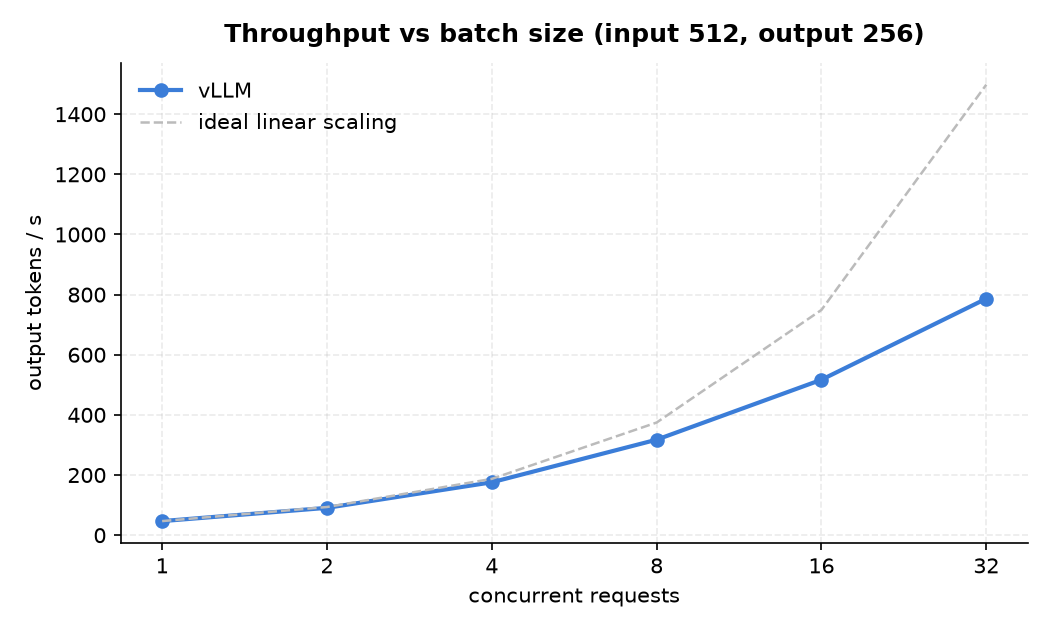
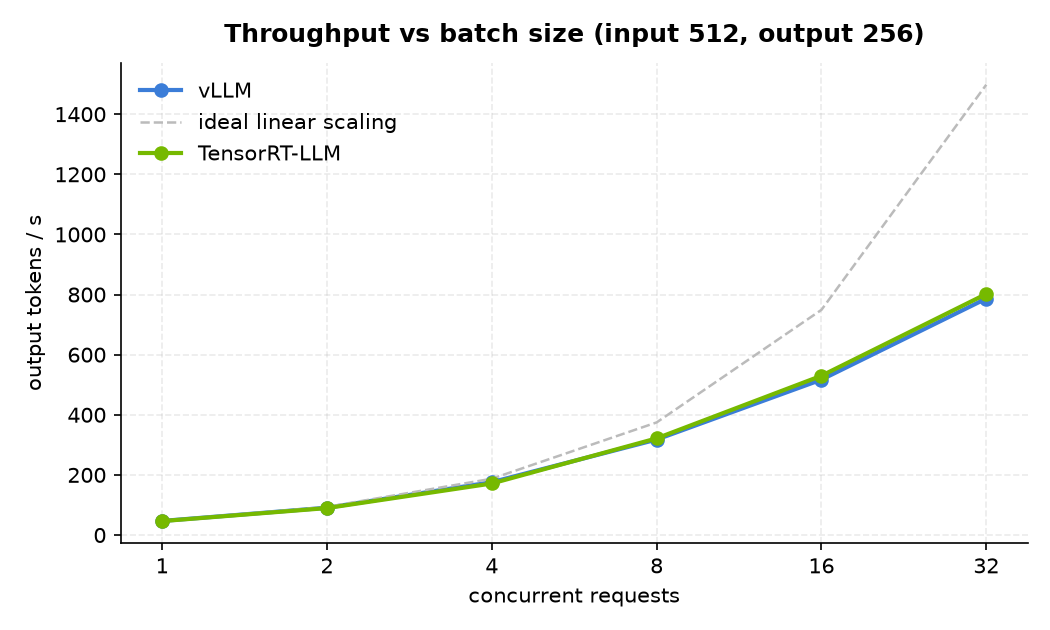
benchmarks: add TensorRT-LLM comparison against vLLM
Same model, same harness, same prompts, single RTX 3090.

Headline: the two engines land within 6% of each other everywhere measured.
Both already run at 83-98% of the hardware roofline (memory bandwidth in decode,
compute in prefill), so neither has room to out-optimize the other on this setup.

Where they do differ is operational:
- startup to serving: 40s (vLLM) vs 202s (TensorRT-LLM ahead-of-time compile)
- batch ceiling: runtime flag vs fixed at build time
- KV cache allocated under each engine's default memory convention: 42,976 vs 30,240 tokens

Documents the asymmetry in memory knobs rather than pretending the setups matched.

diff --git a/benchmarks/README.md b/benchmarks/README.md
@@ -1,15 +1,58 @@
-# LLM Inference Benchmarks — RTX 3090
+# TensorRT-LLM vs vLLM on a single RTX 3090
 
-Reproducible latency/throughput measurements for LLM serving engines on a single
-consumer GPU, with every number cross-checked against a first-principles roofline.
+Like-for-like measurements of two LLM serving engines, driven by one client against
+identical prompts, with every number cross-checked against a first-principles roofline.
 
-**Headline result: measured performance lands within 84–98% of the hardware ceiling,
-and the two serving phases are limited by *different* physical resources.**
+## Result: they perform the same, and that is the interesting part
 
-| Phase | Bound by | Theoretical | Measured | Efficiency |
+Across every configuration measured, the two engines land within **±6%** of each other —
+inside the run-to-run noise of a consumer GPU.
+
+![Throughput vs batch](charts/throughput_vs_batch.png)
+
+| concurrency | vLLM | TensorRT-LLM | Δ |
+|---:|---:|---:|---:|
+| 1 | 46.8 tok/s | 46.3 tok/s | −1.0% |
+| 4 | 175.8 tok/s | 171.4 tok/s | −2.5% |
+| 8 | 317.5 tok/s | 321.6 tok/s | +1.3% |
+| 16 | 516.9 tok/s | 529.9 tok/s | +2.5% |
+| 32 | **786.6 tok/s** | **802.0 tok/s** | +2.0% |
+
+| prompt tokens | vLLM TTFT | TensorRT-LLM TTFT | Δ |
+|---:|---:|---:|---:|
+| 128 | 62.5 ms | 65.2 ms | +4.3% |
+| 512 | 148.1 ms | 150.8 ms | +1.8% |
+| 2048 | 473.2 ms | 500.8 ms | +5.8% |
+| 4096 | 962.8 ms | 990.8 ms | +2.9% |
+
+**Neither engine can beat physics.** Both are already running at 84–98% of what the hardware
+allows, so there is no headroom left for one to out-optimize the other:
+
+| Phase | Bound by | Roofline | vLLM | TensorRT-LLM |
 |---|---|---|---|---|
-| Decode (batch 1) | memory bandwidth | 17.50 ms/token | 20.84 ms/token | **84%** |
-| Prefill (4096 tok) | compute | 945 ms | 962.8 ms | **98%** |
+| Decode (batch 1) | memory bandwidth — 936 GB/s | 17.50 ms/token | 20.84 ms (84%) | 21.04 ms (83%) |
+| Prefill (4096 tok) | compute — 71 TFLOPS | 945 ms | 962.8 ms (98%) | 990.8 ms (95%) |
+
+Engine choice cannot move a number the hardware has already pinned. **On this setup the
+decision is operational, not performance-driven.**
+
+---
+
+## Where they actually differ
+
+| | vLLM 0.27.1 | TensorRT-LLM 1.2.0rc1 |
+|---|---|---|
+| Time from launch to serving | **~40 s** | **202 s** (5×) |
+| Batch ceiling | runtime flag — change and restart | **fixed at build time** — change means recompiling |
+| KV cache allocated | 5.9 GiB / 42,976 tokens | 4.15 GiB / 30,240 tokens |
+| Memory knob | `gpu-memory-utilization` (total budget) | `kv_cache_free_gpu_memory_fraction` (share of what's left) |
+
+That 202-second engine preparation is the real cost of ahead-of-time compilation, and it is
+paid again on every configuration change. For a team iterating on models daily that dominates;
+for a team serving one fixed model for months it is a one-time cost that buys specialized kernels.
+
+**The kernels just have nothing to win here.** TensorRT-LLM's advantages — FP8 on Hopper/Ada,
+optimized multi-GPU collectives, INT4 kernels — are all things this configuration does not use.
 
 ---
 
@@ -17,100 +60,102 @@ and the two serving phases are limited by *different* physical resources.**
 
 | | |
 |---|---|
-| GPU | NVIDIA RTX 3090, 24 GB GDDR6X — 936 GB/s, 71 TFLOPS FP16 (FP32 accumulate) |
-| Driver | 610.62 (WSL2, kernel 6.6.87.2) |
+| GPU | RTX 3090, 24 GB GDDR6X — 936 GB/s, 71 TFLOPS FP16 (FP32 accumulate) |
+| Driver | 610.62, WSL2 kernel 6.6.87.2 |
 | Model | `Qwen/Qwen3-8B` — 36 layers, 32 attention heads, 8 KV heads (GQA), head_dim 128 |
-| Precision | BF16 (no quantization) |
-| Engine | vLLM 0.27.1 · PyTorch 2.13.0+cu130 |
-| Serving | `--max-model-len 8192 --gpu-memory-utilization 0.90 --no-enable-prefix-caching` |
+| Precision | BF16, no quantization, identical on both engines |
+| vLLM | 0.27.1 · `--max-model-len 8192 --gpu-memory-utilization 0.90 --no-enable-prefix-caching` |
+| TensorRT-LLM | 1.2.0rc1 (NGC) · `--backend pytorch --max_batch_size 32 --max_num_tokens 8192 --kv_cache_free_gpu_memory_fraction 0.85` |
 
-**KV cache budget:** weights consume ~15.3 GiB, leaving **5.9 GiB = 42,976 tokens** of KV cache.
-At 144 KB/token this model is 2.6× more cache-hungry than Qwen2.5-7B (56 KB/token) — its GQA
-ratio is 4:1 rather than 7:1. That single number dictates how far the batch sweep can go.
+KV cache is the binding constraint: weights take ~15.3 GiB, and this model costs 144 KB/token
+of cache — 2.6× a Qwen2.5-7B, because its GQA ratio is 4:1 rather than 7:1. That number sets
+how far the batch sweep can go before OOM.
+
+### An honest asymmetry
+
+The two engines expose *different* memory knobs and ended up with different KV budgets
+(42,976 vs 30,240 tokens). Each was given its documented default convention rather than being
+forced to match, so this is a comparison of engines as they are typically deployed. Both budgets
+comfortably cover the sweep (batch 32 × 768 tokens = 24,576), so it does not affect the numbers
+here — but it would matter at long context, and pretending the setups were identical would be
+dishonest.
 
 ## Method
 
 One engine-agnostic client (`bench_client.py`) drives any OpenAI-compatible endpoint over
-streaming HTTP, so different engines are exercised by identical code and identical prompts.
+streaming HTTP, so both engines see identical code, prompts, and measurement logic.
 
 - **3 warmup bursts** discarded, then **5 measured bursts** per configuration
 - Reports **p50 and p95**, never bare averages
 - `temperature=0`, `ignore_eos=true` — every request emits exactly 256 tokens
-- Peak VRAM sampled at 4 Hz in a background thread
-- **One dimension varies at a time.** A batch × context cartesian product would OOM at the
-  corners and would confound the two effects anyway.
+- Peak VRAM sampled at 4 Hz from a background thread
+- Every prompt carries a UUID prefix so no two requests share a cache-able prefix
+- **One dimension varies at a time** — a batch × context cartesian product would OOM at the
+  corners and confound the two effects anyway
 
 ```bash
-# latency: batch fixed at 1, prompt length swept
-# throughput: prompt fixed at 512, concurrency swept
-python bench_client.py --engine vllm --base-url http://127.0.0.1:8000/v1 \
-    --model qwen3-8b --tokenizer ~/models/qwen3-8b --out results_vllm.json
-python make_charts.py results_vllm.json --outdir charts/
+# vLLM
+vllm serve ~/models/qwen3-8b --served-model-name qwen3-8b --port 8000 \
+    --max-model-len 8192 --gpu-memory-utilization 0.90 --no-enable-prefix-caching
+
+# TensorRT-LLM
+docker run -d --gpus all --ipc=host -p 8000:8000 -v ~/models:/models \
+    nvcr.io/nvidia/tensorrt-llm/release:1.2.0rc1 \
+    trtllm-serve /models/qwen3-8b --host 0.0.0.0 --port 8000 --backend pytorch \
+    --max_batch_size 32 --max_num_tokens 8192 --kv_cache_free_gpu_memory_fraction 0.85
+
+# same client against either
+python bench_client.py --engine {vllm|trtllm} --base-url http://127.0.0.1:8000/v1 \
+    --model qwen3-8b --tokenizer ~/models/qwen3-8b --out results_{engine}.json
+python make_charts.py results_vllm.json results_trtllm.json --outdir charts/
 ```
 
 ---
 
-## Results
+## Reading the curves
 
 ### Prefill is compute-bound
 
 ![TTFT vs prompt length](charts/ttft_vs_input_len.png)
 
-| prompt tokens | TTFT p50 | TTFT p95 |
-|---:|---:|---:|
-| 128 | 62.5 ms | — |
-| 512 | 148.1 ms | — |
-| 2048 | 473.2 ms | — |
-| 4096 | 962.8 ms | — |
+TTFT scales close to linearly with prompt length on both engines, which is what a compute-bound
+phase looks like: prefill costs `2 × P × N` FLOPs, so doubling the prompt doubles the work.
 
-TTFT scales close to linearly with prompt length, which is what a compute-bound phase looks
-like: prefill does `2 × P × N` FLOPs, so doubling the prompt doubles the work.
-
-Predicted from the roofline: `2 × 8.19e9 × 4096 / 71e12 = 945 ms`. Measured **962.8 ms** —
-the engine is running prefill at **98% of what the silicon can do**. There is essentially no
-headroom here; the only way to cut TTFT on this hardware is to do less work (shorter prompts,
-prefix caching, chunked prefill).
+Predicted from the roofline: `2 × 8.19e9 × 4096 / 71e12 = 945 ms`. Measured 962.8 ms (vLLM)
+and 990.8 ms (TensorRT-LLM) — **95–98% of what the silicon can do**. The only way to cut TTFT
+on this hardware is to do less work: shorter prompts, prefix caching, chunked prefill.
 
 ### Decode is memory-bound
 
-Per-token latency stays flat at ~21 ms regardless of prompt length, because decode re-reads
-the entire weight matrix for every token and that dominates everything else.
+Per-token latency sits at ~21 ms on both engines regardless of prompt length, because decode
+re-reads the whole weight matrix for every token and that dominates everything else.
 
-Predicted: `16.38 GB / 936 GB/s = 17.50 ms`. Measured **20.84 ms → 84% of the bandwidth roofline**.
-The 16% gap is kernel launch overhead, sampling, and the attention work the simple model ignores.
+Predicted: `16.38 GB / 936 GB/s = 17.50 ms`. Measured 20.84 / 21.04 ms → **83–84% of the
+bandwidth roofline**. The remaining gap is kernel launch overhead, sampling, and the attention
+work this simple model ignores.
 
-**This is why quantization matters far more than raw FLOPs for single-stream generation.**
-Halving the weight bytes would nearly halve decode latency; adding compute would do nothing.
+**This is why quantization matters more than raw FLOPs for single-stream generation.** Halving
+the weight bytes would nearly halve decode latency; adding compute would do nothing at all.
 
 ### Batching trades latency for throughput
 
-![Throughput vs batch](charts/throughput_vs_batch.png)
 ![TPOT vs batch](charts/tpot_vs_batch.png)
 
-| concurrency | throughput | TPOT p50 | TTFT p50 |
-|---:|---:|---:|---:|
-| 1 | 46.8 tok/s | 20.84 ms | 144.3 ms |
-| 2 | 90.9 tok/s | 21.16 ms | 214.3 ms |
-| 4 | 175.8 tok/s | 20.84 ms | 494.5 ms |
-| 8 | 317.5 tok/s | 22.22 ms | 749.6 ms |
-| 16 | 516.9 tok/s | 26.38 ms | 1119.2 ms |
-| 32 | **786.6 tok/s** | 32.44 ms | 2039.9 ms |
+32× the concurrency buys ~17× the throughput for roughly 50% higher per-token latency — the
+weights are read once per step and amortized across every request in flight.
 
-32× the concurrency buys **16.8× the throughput** for a 56% increase in per-token latency —
-the weights are read once per step and amortized across every request in flight.
+Scaling stays near-linear to batch 4 and then bends. That inflection is where prefill work from
+arriving requests starts competing with decode for the same SMs: across the sweep TTFT degrades
+~14× while TPOT degrades only ~1.5×.
 
-Scaling stays near-linear to batch 4 and then bends. That inflection is where prefill work
-from arriving requests starts competing with decode for the same SMs: TTFT degrades 14×
-across the sweep while TPOT only degrades 1.6×.
-
-**The knee is a serving decision, not a hardware limit.** Latency-sensitive workloads should
-cap concurrency around 4–8; batch/offline workloads should push to 32+ and accept 2-second TTFT.
+**The knee is a serving decision, not a hardware limit.** Latency-sensitive workloads should cap
+concurrency near 4–8; batch and offline workloads should push past 32 and accept multi-second TTFT.
 
 ---
 
-## What went wrong first (and how we caught it)
+## What went wrong first (and how it was caught)
 
-The first run reported TTFT of **42 ms at a 4096-token prompt**. The roofline says prefill
+The first vLLM run reported TTFT of **42 ms at a 4096-token prompt**. The roofline says prefill
 alone must cost ~945 ms. A 20× discrepancy is never a pleasant surprise — it means the
 measurement is wrong, not that the engine is magic.
 
@@ -118,18 +163,15 @@ Cause: the harness reused one fixed prompt across all requests, so vLLM's automa
 caching served prefill straight from cache. The server log confirmed it — `Prefix cache hit
 rate: 75.3%`.
 
-Two fixes, both applied:
-1. Every request now gets a UUID-prefixed prompt, so no two share a prefix.
-2. The server runs with `--no-enable-prefix-caching`, so the engine's raw cost is measured.
+Two fixes, both applied: every request now carries a UUID-prefixed prompt, and the server runs
+with `--no-enable-prefix-caching`. Decode numbers were unaffected (generation does real work
+either way), but every TTFT figure in that first run was measuring a cache lookup.
 
-Decode numbers were unaffected (generation does real work either way), but every TTFT figure
-in the first run was measuring a cache lookup.
+**Compute the expected value before trusting a measured one.** The roofline was not decoration —
+it is what caught the bug.
 
-**Takeaway: compute the expected value before trusting a measured one.** The roofline was not
-decoration — it was the thing that caught the bug.
-
-Side effect worth noting: disabling prefix caching *increased* usable KV cache from
-4.91 GiB to 5.9 GiB, since the engine no longer reserves a cache region.
+Side note: disabling prefix caching *increased* usable KV cache from 4.91 to 5.9 GiB, since the
+engine no longer reserves a cache region.
 
 ## Running vLLM under WSL2
 
@@ -143,26 +185,33 @@ vllm serve ...
 ```
 
 1. `RuntimeError: UVA is not available` — misleading. UVA *is* available
-   (`cudaDevAttrUnifiedAddressing = 1`, pinned allocation succeeds). vLLM disables pinned
-   memory on WSL by default and gates it behind `VLLM_WSL2_ENABLE_PIN_MEMORY`.
-2. `Could not find nvcc` — `deep_gemm` JIT-compiles kernels. No CUDA toolkit in this WSL image.
+   (`cudaDevAttrUnifiedAddressing = 1`, pinned allocation succeeds). vLLM disables pinned memory
+   on WSL by default and gates it behind `VLLM_WSL2_ENABLE_PIN_MEMORY`.
+2. `Could not find nvcc` — `deep_gemm` JIT-compiles kernels; no CUDA toolkit in this WSL image.
 3. The same nvcc error again, this time from FlashInfer's sampling kernel. Greedy decoding
    does not need it.
+
+TensorRT-LLM had none of these — the NGC container ships a complete toolchain, which is part of
+what the 20 GB image and 202-second startup buy you.
 
 ---
 
 ## Files
 
 ```
-bench_client.py     engine-agnostic measurement harness
-make_charts.py      chart generation
-results_vllm.json   raw measurements (p50/p95 per configuration)
-charts/             generated figures
+bench_client.py       engine-agnostic measurement harness
+make_charts.py        chart generation
+results_vllm.json     raw measurements, vLLM
+results_trtllm.json   raw measurements, TensorRT-LLM
+charts/               generated figures
 ```
 
-## Next
+## What would change the answer
 
-TensorRT-LLM measured with the same harness and the same prompts, for a like-for-like
-comparison of an ahead-of-time-compiled engine against a dynamic one. The interesting
-question is not which is faster overall, but where each wins: TensorRT-LLM builds a fixed
-engine per configuration, while vLLM keeps scheduling flexibility at runtime.
+This configuration puts both engines against the same two hardware walls, so it cannot separate
+them. The comparisons where TensorRT-LLM should pull ahead all involve leaving that regime:
+
+- **FP8 on Ada/Hopper** — native tensor-core support the 3090 (Ampere) does not have
+- **INT4/AWQ weights** — moves decode off the bandwidth wall, where kernel quality starts to matter
+- **Multi-GPU tensor parallel** — optimized collectives versus a generic path
+- **Sustained high batch** — where kernel efficiency, not weight traffic, sets the ceiling
